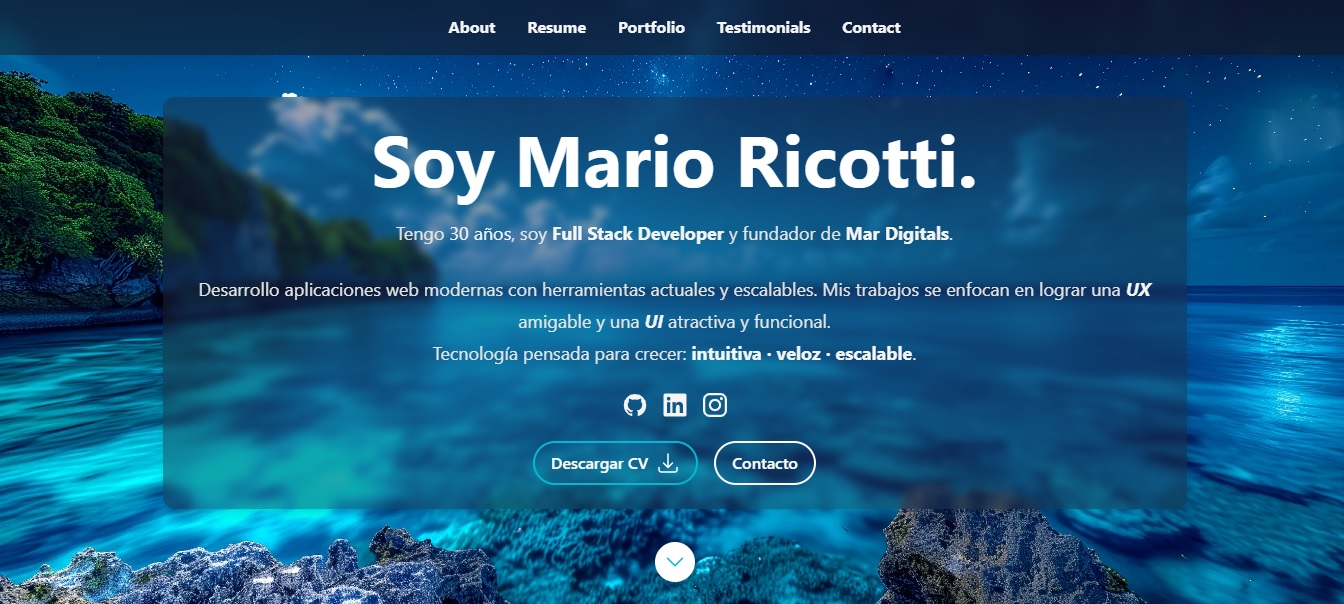
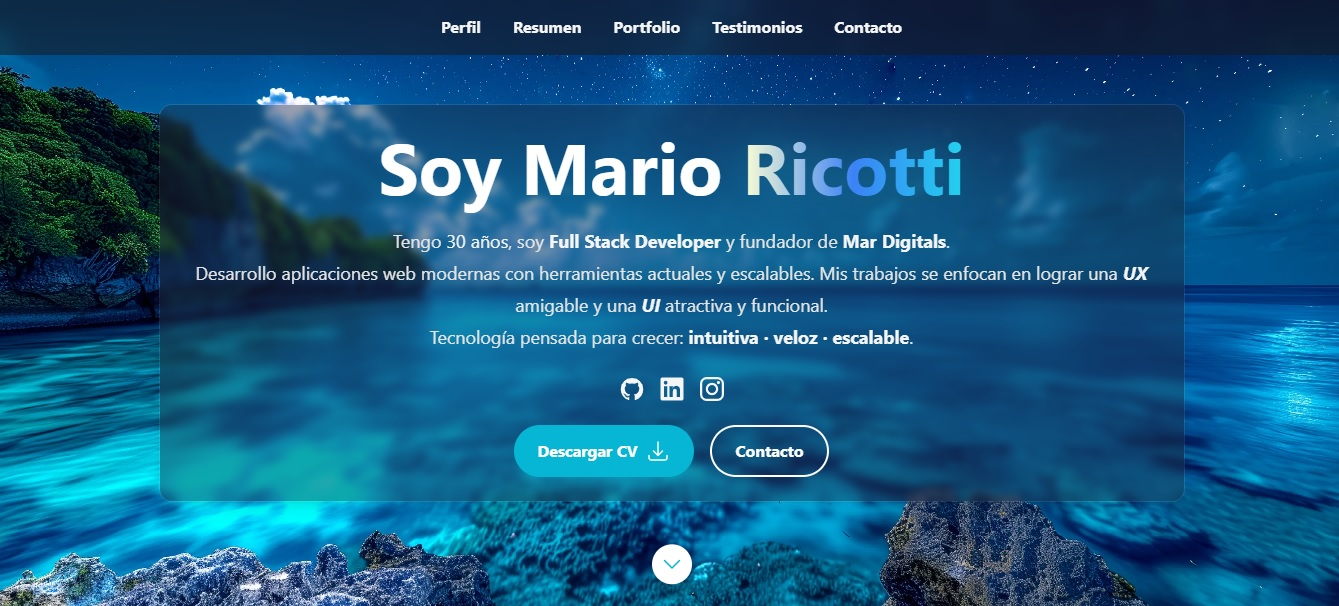
feat: mejoras visuales en hero y  porfolio y lógica en construcción

diff --git a/src/components/Sections/Portfolio.tsx b/src/components/Sections/Portfolio.tsx
@@ -1,9 +1,8 @@
-import {ArrowTopRightOnSquareIcon} from '@heroicons/react/24/outline';
+import {ArrowTopRightOnSquareIcon, LockClosedIcon} from '@heroicons/react/24/outline';
 import classNames from 'classnames';
 import {motion} from 'framer-motion';
 import Image from 'next/image';
 import {FC, memo, MouseEvent, useCallback, useEffect, useRef, useState} from 'react';
-
 import {isMobile} from '../../config';
 import {portfolioItems, SectionId} from '../../data/data';
 import {PortfolioItem} from '../../data/dataDef';
@@ -93,7 +92,7 @@ export default Portfolio;
 /**
  * ItemOverlay: Mantiene tu lógica original de Mobile corregida con estilos nuevos
  */
-const ItemOverlay: FC<{item: PortfolioItem}> = memo(({item: {url, title, description}}) => {
+const ItemOverlay: FC<{item: PortfolioItem}> = memo(({item: {url, title, description, disabled}}) => {
   const [mobile, setMobile] = useState(false);
   const [showOverlay, setShowOverlay] = useState(false);
   const linkRef = useRef<HTMLAnchorElement>(null);
@@ -108,34 +107,44 @@ const ItemOverlay: FC<{item: PortfolioItem}> = memo(({item: {url, title, descrip
 
   const handleItemClick = useCallback(
     (event: MouseEvent<HTMLElement>) => {
+      if (disabled) {
+        event.preventDefault();
+        return;
+      }
       if (mobile && !showOverlay) {
         event.preventDefault();
         setShowOverlay(true);
       }
     },
-    [mobile, showOverlay],
+    [mobile, showOverlay, disabled],
   );
 
   return (
     <a
       className={classNames(
-        'absolute inset-0 flex flex-col justify-center bg-gray-900/90 p-4 transition-all duration-500',
+        'absolute inset-0 flex flex-col justify-center bg-gray-900/90 p-4 transition-all duration-500', disabled ? 'cursor-not-allowed' : 'cursor-pointer', 
         !mobile ? 'opacity-0 translate-y-2 group-hover:opacity-100 group-hover:translate-y-0' : (showOverlay ? 'opacity-100' : 'opacity-0'),
       )}
-      href={url}
+      href={disabled ? undefined : url}
       onClick={handleItemClick}
       ref={linkRef}
-      target="_blank"
+      target={disabled ? undefined : "_blank"}
     >
       <div className="flex h-full w-full flex-col items-center justify-center gap-y-2 text-center">
         <h3 className="text-base font-bold text-white sm:text-lg">{title}</h3>
         <p className="text-xs text-gray-300 sm:text-sm">{description}</p>
         
-        {/* Indicador de "Ver más" con el Cyan de Mar Digitals */}
-        <div className="mt-2 flex items-center gap-x-1 text-xs font-bold text-cyan-400">
-          <span>VER PROYECTO</span>
-          <ArrowTopRightOnSquareIcon className="h-4 w-4" />
-        </div>
+      {disabled ? (
+          <div className="mt-2 flex items-center gap-x-1 text-xs font-bold text-amber-500">
+            <LockClosedIcon className="h-4 w-4" />
+            <span className="uppercase tracking-wider">En construcción</span>
+          </div>
+        ) : (
+          <div className="mt-2 flex items-center gap-x-1 text-xs font-bold text-cyan-400">
+            <span>VER PROYECTO</span>
+            <ArrowTopRightOnSquareIcon className="h-4 w-4" />
+          </div>
+        )}
       </div>
     </a>
   );

diff --git a/src/data/data.tsx b/src/data/data.tsx
@@ -11,7 +11,6 @@ import LinkedInIcon from '../components/Icon/LinkedInIcon';
 import heroImage from '../images/header-background.webp';
 import porfolioImage1 from '../images/portfolio/portfolio-imagen-1.jpg';
 import porfolioImage2 from '../images/portfolio/portfolio-imagen-2.jpg';
-import porfolioImage3 from '../images/portfolio/portfolio-imagen-3.jpg';
 import profilepic from '../images/profilepic.jpg';
 import testimonialImage from '../images/testimonial.webp';
 import {
@@ -50,7 +49,6 @@ const calculateAge = (birthDate: string): number => {
   return age;
 };
 
-// Reemplazá 'YYYY-MM-DD' por tu fecha de nacimiento real
 const myAge = calculateAge('1995-06-14');
 
 /**
@@ -82,7 +80,19 @@ export type SectionId = (typeof SectionId)[keyof typeof SectionId];
  */
 export const heroData: Hero = {
   imageSrc: heroImage,
-  name: `Soy Mario Ricotti.`,
+  name: (
+    <>
+      Soy Mario{' '}
+      <span className="relative inline-block font-bold 
+        bg-gradient-to-r from-[#feffd4] via-[#3b82f6] to-[#22d3ee] 
+        bg-clip-text text-transparent 
+        drop-shadow-[0_0_10px_rgba(255,255,255,0.7)] 
+        drop-shadow-[0_0_25px_rgba(34,211,238,0.4)]
+        animate-pulse-subtle">
+        Ricotti
+      </span>
+    </>
+  ),
   description: (
     <>
       <p className="prose-sm text-stone-200 sm:prose-base lg:prose-lg">
@@ -359,14 +369,8 @@ export const portfolioItems: PortfolioItem[] = [
   {
     title: 'Gestión de Fans para Autódromo',
     description: 'Memberships Platform',
-    url: 'https://www.autodromorafaela.com',
     image: porfolioImage2,
-  },
-    {
-    title: 'Otros Proyectos',
-    description: '12',
-    url: 'https://www.otrosproyectos.com',
-    image: porfolioImage3,
+    disabled: true,
   },
 ];
 

diff --git a/src/data/dataDef.ts b/src/data/dataDef.ts
@@ -22,7 +22,7 @@ export interface HomepageMeta {
  */
 export interface Hero {
   imageSrc: string;
-  name: string;
+  name: React.ReactNode;
   description: JSX.Element;
   actions: HeroActionItem[];
 }
@@ -79,8 +79,9 @@ export interface SkillGroup {
 export interface PortfolioItem {
   title: string;
   description: string;
-  url: string;
+  url?: string;
   image: string | StaticImageData;
+  disabled?: boolean;
 }
 
 /**
